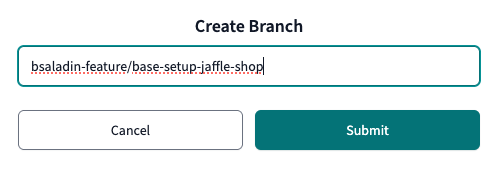
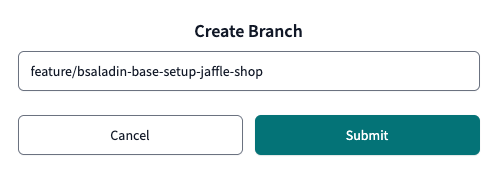
feedback implementation

diff --git a/docs/data-quality.md b/docs/data-quality.md
@@ -10,7 +10,7 @@ dbt provides built-in test types and supports custom tests through packages like
 
 ## 1. Defining Data Quality Tests
 
-In dbt, tests are defined within the `schema.yml` files alongside the models they validate. Create a schema.yml file in the staging folder.
+In dbt, tests are defined within the `.yml` files alongside the models (preferred) or schemas they validate.
 
 **Example: Basic Tests on the `stg_orders` Model in the staging schema**
 ```yaml title="./models/staging/staging.yml" linenums="1" hl_lines="7-9 12-15"
@@ -40,8 +40,30 @@ models:
 
 ---
 
+## 2. Add dbt-expectations for advanced testing
 
-## 2. Add data quality tests
+Add package dbt-expectations to your packages.yml file
+
+```yaml title="./packages.yml" linenums="1" hl_lines="4-5"
+packages:
+  - package: dbt-labs/dbt_utils
+    version: [">=1.0.0", "<2.0.0"]
+  - package: calogica/dbt_expectations
+    version: [">=0.10.1", "<0.11.0"]
+```
+
+Run dbt deps to install the package
+
+```bash
+dbt deps
+```
+
+See all the tests available in the dbt-expectations package [here](https://hub.getdbt.com/calogica/dbt_expectations/latest/){target=_blank}.
+
+---
+
+
+## 3. Add data quality tests
 
 Add data quality tests to your dbt project in the source.yml file
 
@@ -91,32 +113,12 @@ sources:
 ```
 
 
----
 
-## 3. Add dbt-expectations for advanced testing
-
-Add package dbt-expectations to your packages.yml file
-
-```yaml title="./packages.yml" linenums="1" hl_lines="4-5"
-packages:
-  - package: dbt-labs/dbt_utils
-    version: [">=1.0.0", "<2.0.0"]
-  - package: calogica/dbt_expectations
-    version: [">=0.10.1", "<0.11.0"]
-```
-
-Run dbt deps to install the package
-
-```bash
-dbt deps
-```
-
-See all the tests available in the dbt-expectations package [here](https://hub.getdbt.com/calogica/dbt_expectations/latest/){target=_blank}.
 
 
 ---
 
-## 5. Running Tests
+## 4. Running Tests
 
 Running dbt tests is as simple as adding the below code to the command line and run it with `Cmd + Enter` on Mac or `Ctrl + Enter` in Windows. Execute the command below:
 
@@ -154,7 +156,8 @@ Commit the changes to your repository. Add a commit message `Add data quality te
 
 
 ---
-## 6. Advanced Granular Test Configuration
+
+## 5. Advanced Granular Test Configuration
 
 dbt allows defining granular conditions within test configurations. This ensures flexibility and targeted validation for business rules. If you like, you can also add this logic in your code in a new file `./marts/staging/staging.yml`.
 
@@ -184,7 +187,8 @@ Dynamic thresholds:
 
 
 ---
-## 7. Tip for Handling Test Failures
+
+## 6. Tip for Handling Test Failures
 
 When a test fails, dbt provides detailed logs with failing records. You can let dbt add this information into snowflake to identify failed records. More information [here](https://docs.getdbt.com/reference/resource-configs/store_failures){target=_blank}.
 

diff --git a/docs/fivetran-setup.md b/docs/fivetran-setup.md
@@ -52,6 +52,10 @@ Fivetran enables automated data ingestion from Google Drive.
     - **Destination schema**: ```jaffle_shop```
     - **Folder URL**: ```https://drive.google.com/drive/u/0/folders/1Z_U_6SVP6vWXGJWHu9Fl_uUjieyVjaWX```
     
+        It might ask for the following:
+
+    - **Data processing location**: `EU`    
+    
 
     Desired state:
 
@@ -82,11 +86,11 @@ Connector configuration is set up - go to the next step and add Snowflake as our
 
     ![Snowflake Connection](./assets/screenshots/ftSetup/ftSetup14.png)
 
-2. Fill in the required information (Connection details from Snowflake and additional Fivetran configuration):
-    - **Snowflake Account URL** (example: Snowfakes Account/Server URL `<org_name>-<account_name>.snowflakecomputing.com/` | `BYELBTA-MV59868.snowflakecomputing.com`)
+2. Fill in the required information (Connection details from Snowflake (from your notes in `download.txt`) and additional Fivetran configuration):
+    - **Snowflake Account URL** (e.g. `BYELBTA-MV59868.snowflakecomputing.com`): `<org_name>-<account_name>.snowflakecomputing.com/>`
     - **Snowflake USER**: `<username>`
     - **Database**: `PSA`
-    - **Auth**: set to `PASSWORD`
+    - **Auth**: `PASSWORD`
     - **Role**: `ACCOUNTADMIN`
     - **Password**: `<password>`
     - **Data processing location**: `EU`
@@ -98,8 +102,6 @@ Connector configuration is set up - go to the next step and add Snowflake as our
     ![Snowflake Connection](./assets/screenshots/ftSetup/ftSetup15.png)
 
     - Click **Save & Test**.
-
-
     
     - **All connection tests passed!**
 
@@ -129,7 +131,7 @@ Once connected, start syncing data from **Google Drive to Snowflake**.
 
     ![Snowflake Data](./assets/screenshots/ftSetup/ftSetup20.png)
 
-    On hover, you can see the details of the load process.
+    On hover over the time line block, you can see the details of the load process.
 
     ![Snowflake Data](./assets/screenshots/ftSetup/ftSetup21.png)
 

diff --git a/docs/dbt-setup.md b/docs/dbt-setup.md
@@ -1,4 +1,6 @@
 # dbt Cloud Setup
+!!! note "MFA required"
+      With the second sign in, dbt cloud it asking for multi factor authentication.
 
 ## 1. Create a dbt Cloud Account
    1. To start using dbt Cloud, sign up for an account on the [dbt Cloud website](https://cloud.getdbt.com/){:target="_blank"}. **Start free trial**.
@@ -35,7 +37,7 @@ dbt Cloud will per default set up a new project called `ANALYTICS`, which we wil
       ![dbt Cloud New Project](./assets/screenshots/dbtSetup/dbtSetup6.png)
 
 
-   3. Fill out the form.
+   3. Fill out the form .
 
 !!! bug "Make sure the full account locator is correct"
 
@@ -48,7 +50,7 @@ dbt Cloud will per default set up a new project called `ANALYTICS`, which we wil
       [^2]: eu_central_2 is the region
 
    - Connection name: `Snowflake_HWZ`
-   - Your full account locator
+   - Account: `Full Account Locator` from your notes in the Snowflake section.
    - Database (Target in Snowflake): `Analytics`
    - Warehouse: `Transformer`
 

diff --git a/docs/dbt-transformation.md b/docs/dbt-transformation.md
@@ -32,7 +32,7 @@ Before starting with dbt transformations, we need to add some more configuration
 
 1. Go to **Develop** > **Cloud IDE**.
 
-2. **Create a branch** named `<your-name>-feature/base-setup-jaffle-shop` for your changes.
+2. **Create a branch** named `feature/<your-name>-base-setup-jaffle-shop` for your changes.
 
     ![dbt Project Setup](./assets/screenshots/dbtTrans/dbtTrans1.png)
 
